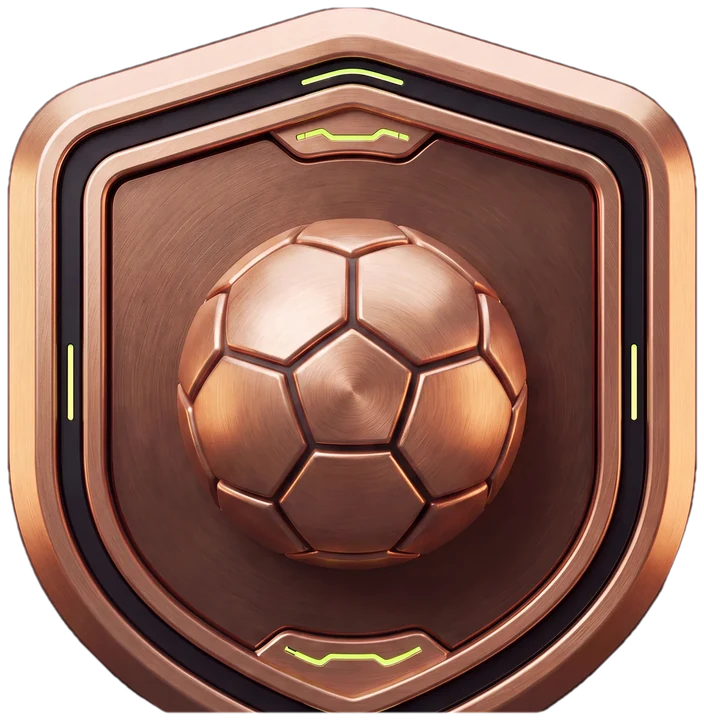
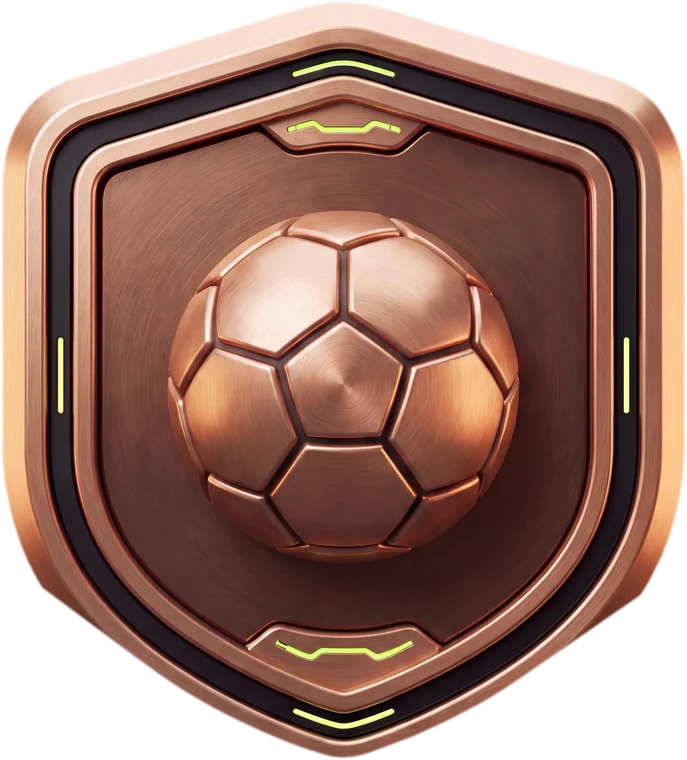
Badges: re-cut full shields (no cropped bottoms), eased two-way climb and XP counter
Claude-Session: https://claude.ai/code/session_01EueqKH8hPVWd46HcJncVBW

diff --git a/public/index.html b/public/index.html
@@ -703,15 +703,27 @@ var XEO={launch:"30 January 2027",plausible:"",metaPixel:""};
     if(fire&&i>last)unlock(i);
     last=i;
   }
-  function update(){
-    ticking=false;
-    var p=progress(),f=clamp(p/DWELL,0,1);
+  var target=0,cur=-1,raf=0,lt=0;
+  function render(f){
     fill.style.height=(f*100)+"%";
     var seg=Math.min(3,Math.floor(f*4)),loc=f*4-seg,xp=T[seg].xp+(T[seg+1].xp-T[seg].xp)*loc;
     xpEl.textContent=fmt.format(Math.round(xp));
     var idx=Math.min(4,Math.floor(f*4+1e-6));
     if(idx!==last)setTier(idx,last>=0);
+  }
+  function frame(t){
+    var dt=Math.min(64,t-lt)||16;lt=t;
+    cur+=(target-cur)*(1-Math.exp(-dt/120));
+    if(Math.abs(target-cur)<.0006)cur=target;
+    render(cur);
+    raf=cur!==target?requestAnimationFrame(frame):0;
+  }
+  function update(){
+    ticking=false;
+    var p=progress();target=clamp(p/DWELL,0,1);
     hint.style.opacity=p>0.03?0:1;
+    if(cur<0||reduce){cur=target;render(cur);return}
+    if(!raf){lt=performance.now();raf=requestAnimationFrame(frame)}
   }
   function onScroll(){if(!ticking){ticking=true;requestAnimationFrame(update)}}
   addEventListener("scroll",onScroll,{passive:true});
